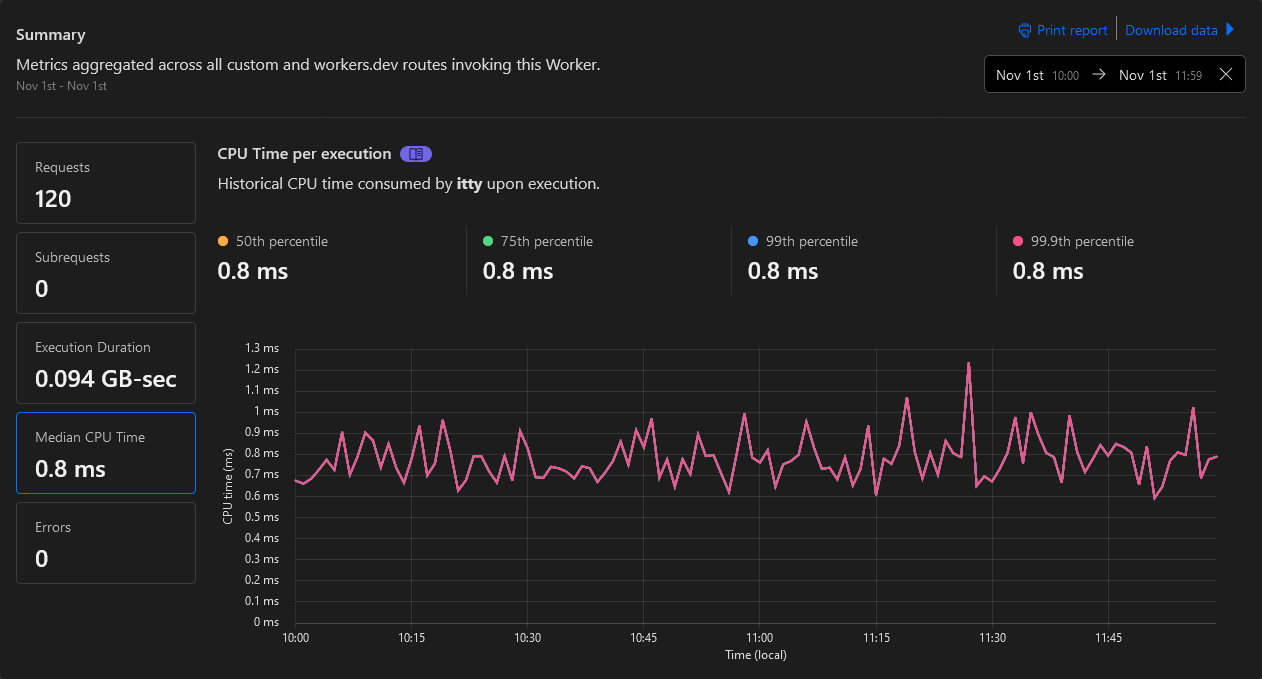
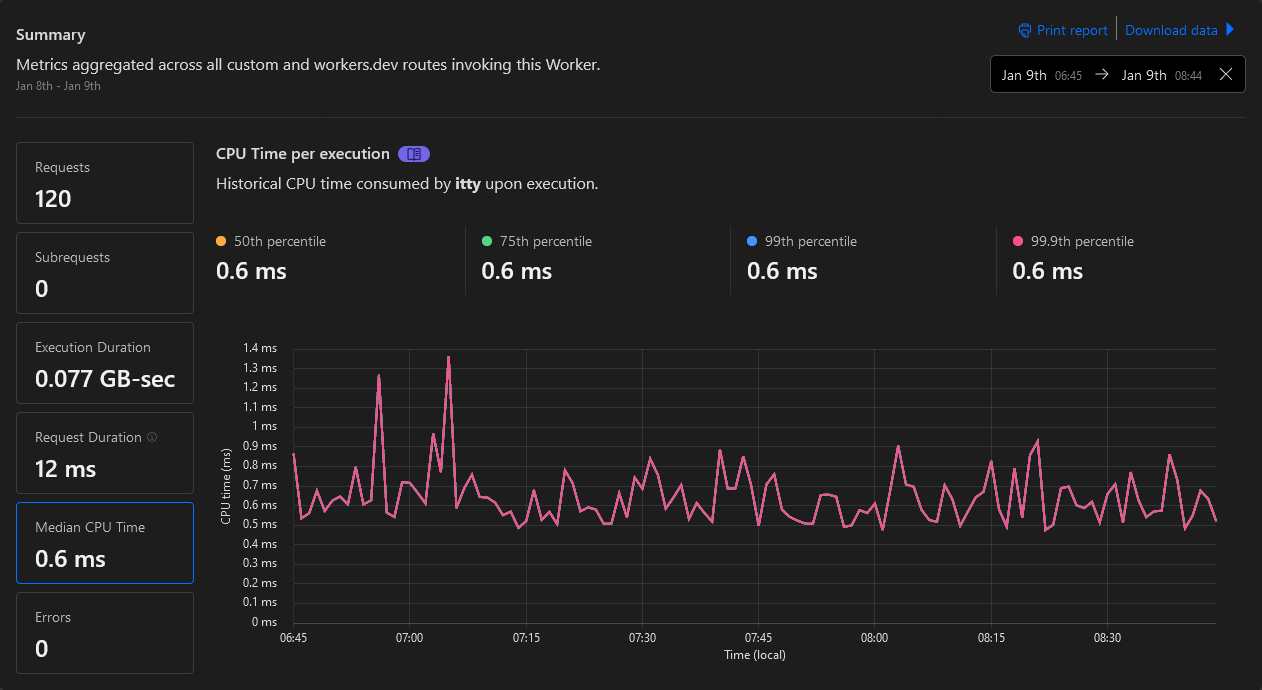
Workers updates

diff --git a/README.md b/README.md
@@ -4,7 +4,14 @@ Metric studies on Cloudflare Workers & Pages
 
 ## CHANGELOG
 
+- v0.7.0 2024-01-09
+
+  - wrangler & @cloudflare/workers-types moved to central/main package
+  - itty-router 4.0.26
+  - hono 3.12.0
+
 - v0.6.0 2023-11-01
+
   - New "Standard usage model" + CPU limit
   - Minify on deploy
   - wrangler 3.15.0
@@ -19,11 +26,11 @@ Metric studies on Cloudflare Workers & Pages
   _Light router but no helpers, fast anyway_
   ![worker pico](images/worker-pico.png)
 
-- [itty-router](https://github.com/kwhitley/itty-router) v4.0.23 (Total Upload: 1.46 KiB / gzip: 0.89 KiB ~~2.10 KiB / gzip: 1.08 KiB~~) \
+- [itty-router](https://github.com/kwhitley/itty-router) v4.0.26 (Total Upload: 1.44 KiB / gzip: 0.89 KiB ~~2.10 KiB / gzip: 1.08 KiB~~) \
   _Famous router with its helpers, fast_
   ![worker itty-router](images/worker-itty.png)
 
-- [Hono/tiny](https://github.com/honojs/hono) v3.9.1 (Total Upload: 13.52 KiB / gzip: 5.14 KiB ~~28.33 KiB / gzip: 7.18 KiB~~) \
+- [Hono/tiny](https://github.com/honojs/hono) v3.12.0 (Total Upload: 15.34 KiB / gzip: 5.68 KiB ~~28.33 KiB / gzip: 7.18 KiB~~) \
   _Real fast router but slightly too heavy for a 'free plan' 10ms_
   ![worker hono](images/worker-hono.png)
 
